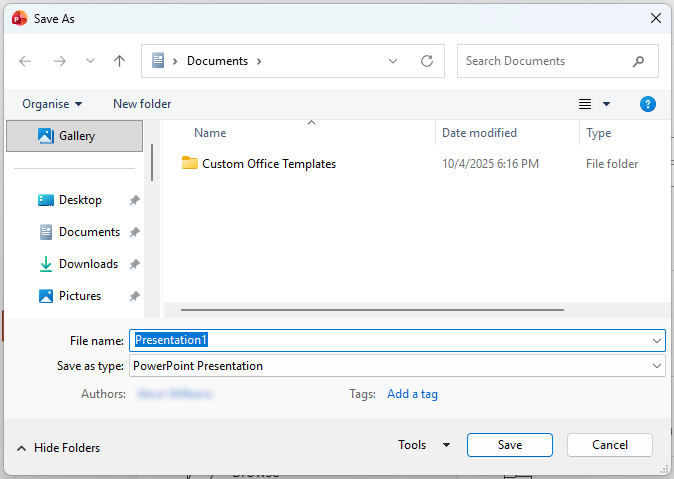
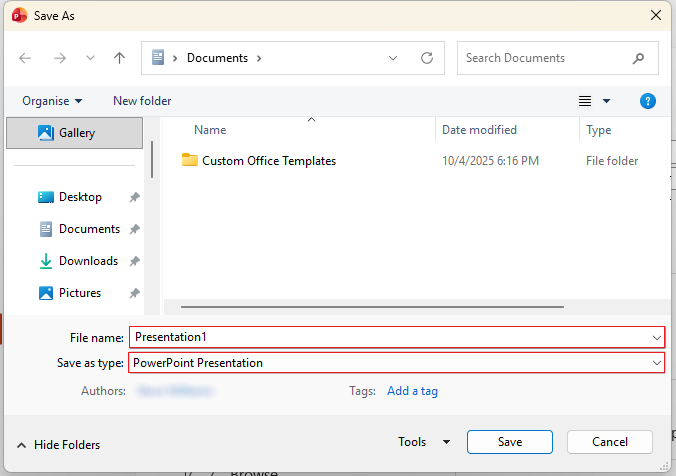
fixing typos and broken images

diff --git a/docs/word/formatting-text/index.html b/docs/word/formatting-text/index.html
@@ -548,8 +548,6 @@
       </tr>
     </tbody>
   </table>
-  </ul></section>
-</div>
 <h1>Where to now?</h1>
 <p>Now you've got the basics of formatting tools try experimenting with them on text in a document, it's the best way to learn how they work. For more font and paragraph options take a look at these articles:</p><p>
 </p><ul>
@@ -557,6 +555,8 @@
   <li><a href="/word/paragraph-options/">Paragraph options</a></li>
   <li><a href="/word/styles/">Styles</a> (for headings)</li>
 </ul>
+  </ul></section>
+</div>
 <!-- Intermediate version -->
 <div class="difficulty intermediate-version" style="display:none;">
   <h1>Formatting text</h1>

diff --git a/docs/powerpoint/saving-and-save-as/index.html b/docs/powerpoint/saving-and-save-as/index.html
@@ -376,7 +376,7 @@
   <p>With the PowerPoint presentation open, you can save by doing one of the following:</p>
   <ol type="a">
   <li><strong>Save the existing presentation</strong> (<u>Note</u>: if it has already been saved previously you ‘overwrite’ the file with changes made). Either press <strong>Ctrl + S</strong> or click the <strong>Save</strong> button at the top left of the Quick Access Toolbar.<p></p>
-  <img class="thumbnail left" src="/assets/images/powerpoint/Saving and Save as/Save on QAT.png" alt="Save button on quick access toolbar in Word" style="max-width:225px; width:100%; height:auto; vertical-align:middle">
+  <img class="thumbnail left" src="/assets/images/powerpoint/Saving and Save As/Save on QAT.png" alt="Save button on quick access toolbar in Word" style="max-width:225px; width:100%; height:auto; vertical-align:middle">
   </li>
   <p><strong>OR</strong></p>
   <li><strong>Save as a new document or a different <span class="glossary-hover" data-term="filetype">filetype</span></strong> (e.g. a template or PDF) using <strong>File &gt; Save As.</strong></li>

diff --git a/docs/word/paragraph-options/index.html b/docs/word/paragraph-options/index.html
@@ -415,7 +415,7 @@
 <p>These are to do with the layout of margins for paragraphs on opposite facing pages, for when you're holding a double sided report, book or magazine open. Use this if you want paragraph indents mirroring each other on opposite pages in terms of being indented closer to the spine where the pages meet ('inside') or further from the spine towards the outer edge of the pages ('outside').</p>
 <p><img class="thumbnail border" src="/assets/images/word/Paragraph options/Indentation Inside and Outside 2.png" alt="Indentation Inside and Outside on opposite facing pages in Word" style="max-width:800px; width:100%; height:auto; vertical-align:middle"></p>
 <h4>Special / By</h4>
-<p>Use the <strong>Speciai</strong> drop down menu if you specifically want to change the <span class="glossary-hover" data-term="first-line-indent">First line indent</span> or <span class="glossary-hover" data-term="hanging-indent">Hanging indent</span>. Once selected you can alter how much to indent by with the <strong>By</strong> field. More on these different indent types is explained with interactive examples here: <a href="/word/Indents/">Indents</a>.</p>
+<p>Use the <strong>Special</strong> drop down menu if you specifically want to change the <span class="glossary-hover" data-term="first-line-indent">First line indent</span> or <span class="glossary-hover" data-term="hanging-indent">Hanging indent</span>. Once selected you can alter how much to indent by with the <strong>By</strong> field. More on these different indent types is explained with interactive examples here: <a href="/word/Indents/">Indents</a>.</p>
 <p><img class="thumbnail border" src="/assets/images/word/Paragraph options/Indentation Special and By options.png" alt="Indentation Special and By options in Paragraph Options in Word" style="width:40%; height:auto; vertical-align:middle"></p>
 <h3 id="spacing">Spacing</h3>
 <p><strong>Spacing</strong> allows you to increase or reduce spacing above and below a paragraph and in the lines themselves.</p>

diff --git a/docs/word/saving-and-save-as/index.html b/docs/word/saving-and-save-as/index.html
@@ -402,7 +402,7 @@ Then <strong>Save As</strong></p>
 <p>In the Word Options select <strong>Save</strong> from the left menu:</p>
 <p><img class="thumbnail left" src="/assets/images/word/Saving and Save as/Options save.png" alt="Save As browse window in Word" style="max-width:280px; width:100%; height:auto; vertical-align:middle"></p>
 <p>With the Save Options you'll see two fields for default locations, one for Word documents and one for Word templates. Copy in the folder path you want and click <strong>OK</strong> to change it.</p>
-<p><img class="thumbnail left" src="/assets/images/word/Saving and Save as/Options Save Options.png" alt="Save As browse window in Word" style="max-width:800px; width:100%; height:auto; vertical-align:middle"></p>
+<p><img class="thumbnail left" src="/assets/images/word/Saving and Save as/Options save options.png" alt="Save As browse window in Word" style="max-width:800px; width:100%; height:auto; vertical-align:middle"></p>
 </section>
 
           

diff --git a/docs/word/tables-fixing-tables-over-pages/index.html b/docs/word/tables-fixing-tables-over-pages/index.html
@@ -402,7 +402,6 @@
 <img class="thumbnail border" src="/assets/images/word/Tables fixing tables over pages/Table with header row.png" alt="Table across two pages with a header row" style="height:85%; width:85%; vertical-align:middle">
 <p>Click on that header row, then <strong>right click</strong> and select <strong>Table properties</strong>.</p>
 <img class="thumbnail border" src="/assets/images/word/Tables fixing tables over pages/Table properties.png" alt="Table Properties option on right click menu in Word" style="height:30%; width:30%; vertical-align:middle">
-s
 <p>In Table Properties under <strong>Row</strong> check the option <strong>Repeat as header row at the top of each page</strong>, then click <strong>OK</strong>.</p> 
     <p><u>Note</u>: If the option is greyed out for you that means you’ve clicked on/selected another row that’s not the header row.</p>
 <img class="thumbnail border" src="/assets/images/word/Tables fixing tables over pages/Table properties repeat header row.png" alt="Repeat as header row at the top of each page checkbox option in Table Properties window in Word" style="height:50%; width:50%; vertical-align:middle">

diff --git a/src/word/formatting-text.md b/src/word/formatting-text.md
@@ -249,8 +249,6 @@ active: word
       </tr>
     </tbody>
   </table>
-  </section>
-</div>
 
 <h1>Where to now?</h1>
 <p>Now you've got the basics of formatting tools try experimenting with them on text in a document, it's the best way to learn how they work. For more font and paragraph options take a look at these articles:<p>
@@ -259,6 +257,11 @@ active: word
   <li><a href="/word/paragraph-options/">Paragraph options</a></li>
   <li><a href="/word/styles/">Styles</a> (for headings)</li>
 </ul>
+
+  </section>
+</div>
+
+
 
 <!-- Intermediate version -->
 <div class="difficulty intermediate-version" style="display:none;">

diff --git a/src/powerpoint/saving-and-save-as.md b/src/powerpoint/saving-and-save-as.md
@@ -75,7 +75,7 @@ active: powerpoint
   <ol type="a">
   <li><strong>Save the existing presentation</strong> (<u>Note</u>: if it has already been saved previously you ‘overwrite’ the file with changes made). Either press <strong>Ctrl + S</strong> or click the <strong>Save</strong> button at the top left of the Quick Access Toolbar.</p>
 
-  <img class="thumbnail left" src="{{ '/assets/images/powerpoint/Saving and Save as/Save on QAT.png' | url }}"  alt="Save button on quick access toolbar in Word" style="max-width:225px; width:100%; height:auto; vertical-align:middle">
+  <img class="thumbnail left" src="{{ '/assets/images/powerpoint/Saving and Save As/Save on QAT.png' | url }}"  alt="Save button on quick access toolbar in Word" style="max-width:225px; width:100%; height:auto; vertical-align:middle">
 
   </li>
 

diff --git a/src/word/paragraph-options.md b/src/word/paragraph-options.md
@@ -126,7 +126,7 @@ Font options window for editing all things about a text's font. You can access F
 <p><img class="thumbnail border" src="{{ '/assets/images/word/Paragraph options/Indentation Inside and Outside 2.png' | url }}"  alt="Indentation Inside and Outside on opposite facing pages in Word" style="max-width:800px; width:100%; height:auto; vertical-align:middle"></p>
 
 <h4>Special / By</h4>
-<p>Use the <strong>Speciai</strong> drop down menu if you specifically want to change the <span class="glossary-hover" data-term="first-line-indent">First line indent</span> or <span class="glossary-hover" data-term="hanging-indent">Hanging indent</span>. Once selected you can alter how much to indent by with the <strong>By</strong> field. More on these different indent types is explained with interactive examples here: <a href="/word/Indents/">Indents</a>.</p>
+<p>Use the <strong>Special</strong> drop down menu if you specifically want to change the <span class="glossary-hover" data-term="first-line-indent">First line indent</span> or <span class="glossary-hover" data-term="hanging-indent">Hanging indent</span>. Once selected you can alter how much to indent by with the <strong>By</strong> field. More on these different indent types is explained with interactive examples here: <a href="/word/Indents/">Indents</a>.</p>
 <p><img class="thumbnail border" src="{{ '/assets/images/word/Paragraph options/Indentation Special and By options.png' | url }}"  alt="Indentation Special and By options in Paragraph Options in Word" style="width:40%; height:auto; vertical-align:middle"></p>
 
 <h3 id="spacing">Spacing</h3>

diff --git a/src/word/saving-and-save-as.md b/src/word/saving-and-save-as.md
@@ -132,7 +132,7 @@ In the browser window that appears decide on the file name, the filetype (the dr
 <p><img class="thumbnail left" src="{{ '/assets/images/word/Saving and Save as/Options save.png' | url }}"  alt="Save As browse window in Word" style="max-width:280px; width:100%; height:auto; vertical-align:middle"></p>
 
 <p>With the Save Options you'll see two fields for default locations, one for Word documents and one for Word templates. Copy in the folder path you want and click <strong>OK</strong> to change it.</p>
-<p><img class="thumbnail left" src="{{ '/assets/images/word/Saving and Save as/Options Save Options.png' | url }}"  alt="Save As browse window in Word" style="max-width:800px; width:100%; height:auto; vertical-align:middle"></p>
+<p><img class="thumbnail left" src="{{ '/assets/images/word/Saving and Save as/Options save options.png' | url }}"  alt="Save As browse window in Word" style="max-width:800px; width:100%; height:auto; vertical-align:middle"></p>
 
 
 </section>

diff --git a/src/word/tables-fixing-tables-over-pages.md b/src/word/tables-fixing-tables-over-pages.md
@@ -103,7 +103,7 @@ Now instead of content overflowing the whole row moves down to the next page ins
 <p>Click on that header row, then <strong>right click</strong> and select <strong>Table properties</strong>.</p>
 
 <img class="thumbnail border" src="{{ '/assets/images/word/Tables fixing tables over pages/Table properties.png' | url }}"  alt="Table Properties option on right click menu in Word" style="height:30%; width:30%; vertical-align:middle">
-s
+
 <p>In Table Properties under <strong>Row</strong> check the option <strong>Repeat as header row at the top of each page</strong>, then click <strong>OK</strong>.</p> 
     <p><u>Note</u>: If the option is greyed out for you that means you’ve clicked on/selected another row that’s not the header row.</p>
 